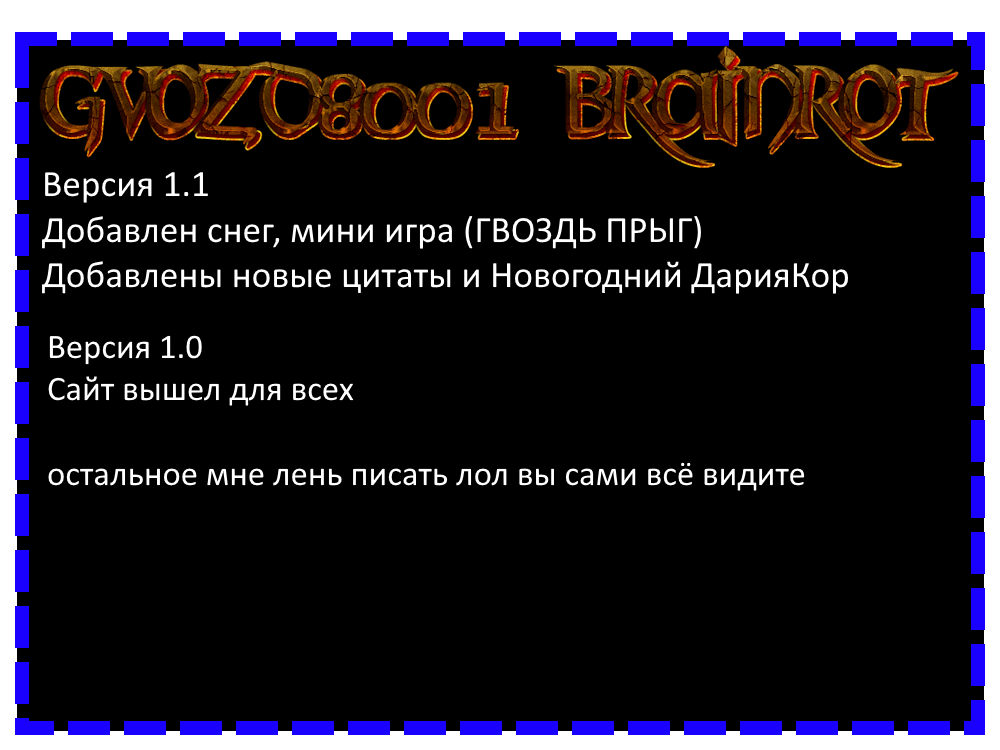
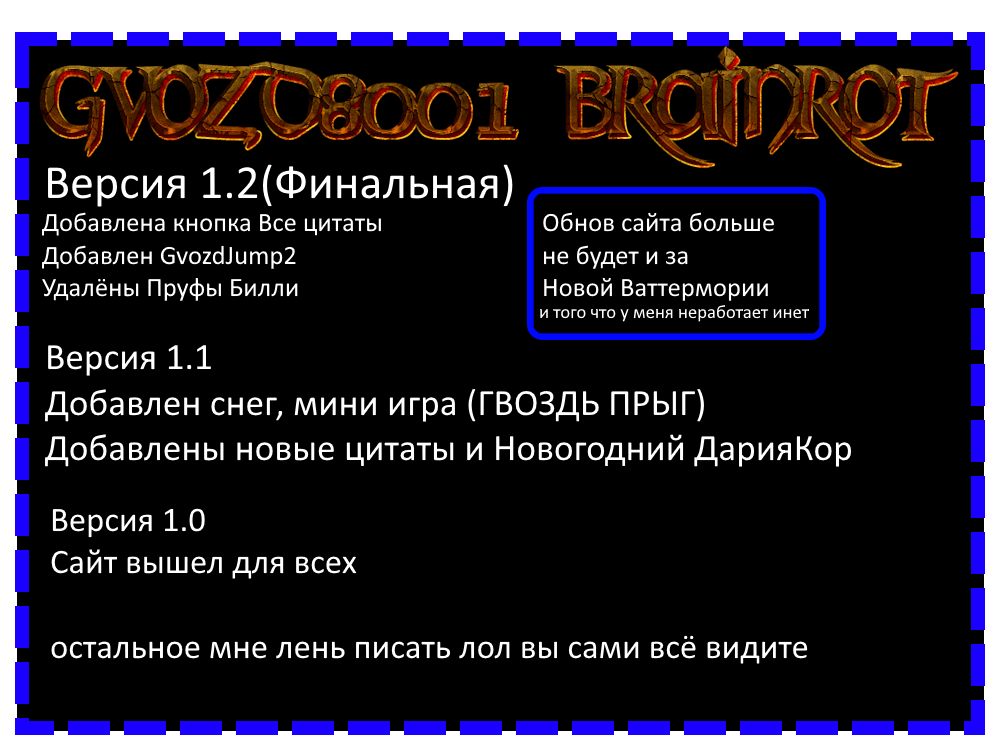
1.3 апдейт

diff --git a/script.js b/script.js
@@ -185,7 +185,9 @@ fixikiBtn.addEventListener("click", () => {
   }
 });
 
-const PrufBtn = document.getElementById("PrufBtn");
+document.getElementById("PrufBtn").onclick = () => {
+  window.location.href = "Allquotes/index.html"; // здесь путь на нужный HTML
+};
 const Prufshow = document.getElementById("Prufshow");
 
 PrufBtn.addEventListener("click", () => {
@@ -202,7 +204,6 @@ bottomGif.onclick = () => {
   window.location.href = "./GvozdJUMP/index.html"; // ← сюда ссылка на нужную страницу
 };
 
-const canvas = document.getElementById("snowCanvas");
 const ctx = canvas.getContext("2d");
 
 canvas.width = window.innerWidth;
@@ -246,15 +247,9 @@ function moveFlakes() {
   }
 }
 
-function animateSnow() {
-  drawFlakes();
-  requestAnimationFrame(animateSnow);
-}
-
-animateSnow();
-
 // Подстраиваемся под ресайз
 window.addEventListener("resize", () => {
   canvas.width = window.innerWidth;
   canvas.height = window.innerHeight;
 });
+

diff --git a/style.css b/style.css
@@ -185,7 +185,7 @@ body {
   left: 70px; /* чуть правее кнопки музыки */
   background: #00ff0d;
   position: fixed;
-  top: 690px;
+  top: 650px;
   padding: 10px 15px;
   border-radius: 6px;
   border: none;
@@ -290,12 +290,3 @@ body {
   display: none;
 }
 
-#snowCanvas {
-  position: fixed;
-  top: 0;
-  left: 0;
-  width: 100vw;
-  height: 100vh;
-  pointer-events: none; /* чтобы клики проходили сквозь снег */
-  z-index: 5000; /* ставим поверх контента, но под оверлеями */
-}

diff --git a/index.html b/index.html
@@ -12,8 +12,8 @@
  
 <button id="musicBtn">ВКЛЮЧАТЬ МУЗЯКУ!!!!!!!!!🎵</button>
 <audio id="bgMusic"></audio>
-<button id="fixikiBtn">ФИКСИКИ 🛠</button> 
-<button id="PrufBtn">ПРУФЫ БИЛЛИ</button> 
+<button id="fixikiBtn">(НОВОЕ) ФИКСИКИ 🛠</button> 
+<button id="PrufBtn">Все Цитаты</button> 
 
  
 <!-- ОВЕРЛЕЙ ДИСКЛЕЙМЕРА -->
@@ -81,6 +81,8 @@
   <button id="next">ЕЩЁ</button>
 
   <script src="script.js"></script>
+  
+ 
 </body>
 
 </html>
